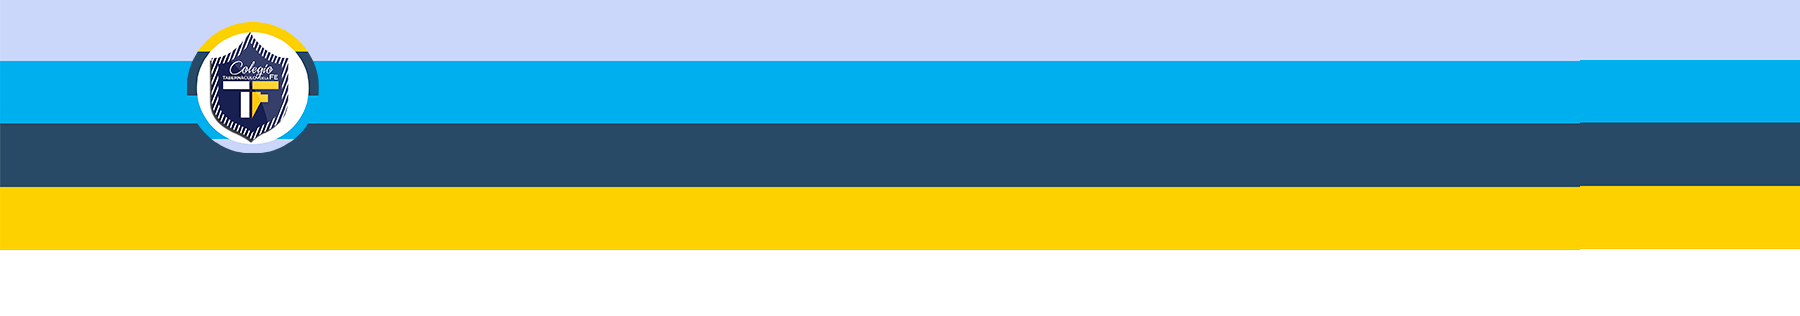
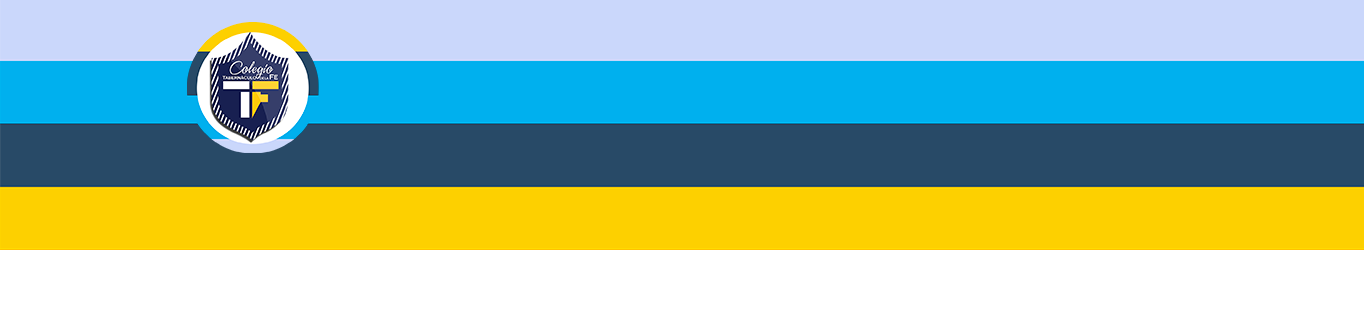
nuevo estilo

diff --git a/css/estilos.css b/css/estilos.css
@@ -1,6 +1,7 @@
 *{
 	margin: 0;
 	padding: 0;
+	
 	-webkit-box-sizing: border-box;
 	-moz-box-sizing: border-box;
 	box-sizing: border-box;
@@ -30,7 +31,7 @@ img{
 
 .title{
 	background-image: url(../img/portada1.png);
-	width: 1365px;
+	width: 1110px;
 	margin-top: 0;
 	height: 170px;
 
@@ -38,7 +39,11 @@ img{
 	align-items: center;
 	justify-content: center;
 }
-
+.container{
+	-webkit-box-shadow: -1px 3px 28px -4px rgba(0,0,0,1);
+-moz-box-shadow: -1px 3px 28px -4px rgba(0,0,0,1);
+box-shadow: -1px 3px 28px -4px rgba(0,0,0,1);
+}
 
 
 
@@ -179,13 +184,13 @@ box-shadow: 0px 0px 5px 0px rgba(0,0,0,0.51);
 	}
 
 	}
-	.contaner1 .btn{
+	.container .btn{
 		
 		display: inline;
 	}
 
 	@media (max-width: 794px){
-		.contaner1 .btn{
+		.container .btn{
 			
 			display: inline-block;
 			margin-top: 1rem;

diff --git a/css/estilos1.css b/css/estilos1.css
@@ -25,7 +25,11 @@ body{
 
 }
 	
-	 
+.container{
+	-webkit-box-shadow: -1px 3px 28px -4px rgba(0,0,0,1);
+-moz-box-shadow: -1px 3px 28px -4px rgba(0,0,0,1);
+box-shadow: -1px 3px 28px -4px rgba(0,0,0,1);
+}	 
 img{
 	max-width: 70%;
 }
@@ -33,7 +37,7 @@ img{
 
 .title{
 	background-image: url(../img/portada1.png);
-	width: 1365px;
+	width: 1110px;
 	margin-top: 0;
 	height: 170px;
 
@@ -182,13 +186,13 @@ box-shadow: 0px 0px 5px 0px rgba(0,0,0,0.51);
 	}
 
 	}
-	.contaner1 .btn{
+	.container .btn{
 		
 		display: inline;
 	}
 
 	@media (max-width: 794px){
-		.contaner1 .btn{
+		.container .btn{
 			
 			display: inline-block;
 			margin-top: 1rem;

diff --git a/vistas/AgregarAsis.php b/vistas/AgregarAsis.php
@@ -17,7 +17,8 @@
     
 </head>
 <body>
-
+<!--el container se puede poner aqui-->
+<div class="container">
 <section class="title mx-10">
 		<!--<h1 class="">Colegio Cristiano Tabernáculo de la Fe</h1>-->
 	</section>
@@ -78,7 +79,7 @@
 		</ul>
     </nav>
   
-    <div class="contaner1">
+   
     <h1 class="text-center">Listado Asistencia</h1>
     <button type="button" class="btn btn-info " data-toggle="modal" onclick="location.href='../vistas/AgregarAsis.php'">
 Parvúlos Primaria
@@ -256,20 +257,17 @@ Eliminar
     <option value="'.$fila['CODIGO_GRADO'].'">'.$fila['NOMBRE_GRADO'].'</option>
     </select>
    </td>
-    <td><select name="asistencia" id="asistencia">
-    <option value="si">Si</option>
-    <option value="no">No</option>
-    </select></td>
+    <td><input type="checkbox" name="asistencia" value="si"></td>
     
    
-    </tr>
+    </tr> 
     ';
     }
     
     ?>
    
     
-  
+ 
     
     </table>
         

diff --git a/vistas/AgregarAlumno.php b/vistas/AgregarAlumno.php
@@ -19,7 +19,7 @@
     
 </head>
 <body>
-
+<div class="container">
 <section class="title mx-10">
 		<!--<h1 class="">Colegio Cristiano Tabernáculo de la Fe</h1>-->
 	</section>
@@ -80,7 +80,7 @@
 		</ul>
     </nav>
   
-    <div class="contaner1">
+    
     <h1 class="text-center">Listado Alumnos</h1>
     <button type="button" class="btn btn-info " data-toggle="modal" onclick="location.href='../vistas/AgregarAlumno.php'">
 Parvúlos Primaria

diff --git a/vistas/AgregarReserva.php b/vistas/AgregarReserva.php
@@ -17,7 +17,7 @@
     
 </head>
 <body>
-
+<div class="container">
 <section class="title mx-10">
 		<!--<h1 class="">Colegio Cristiano Tabernáculo de la Fe</h1>-->
 	</section>
@@ -78,7 +78,7 @@
 		</ul>
     </nav>
   
-    <div class="contaner1">
+    
     <h1 class="text-center">Listado Reservaciones</h1>
     <button type="button" class="btn btn-info " data-toggle="modal" onclick="location.href='../vistas/AgregarDocente.php'">
 Docentes

diff --git a/vistas/AgregarTablet.php b/vistas/AgregarTablet.php
@@ -17,7 +17,7 @@
     
 </head>
 <body onload="lista_libros('');">
-
+<div class="container">
 <section class="title mx-10">
 		<!--<h1 class="">Colegio Cristiano Tabernáculo de la Fe</h1>-->
 	</section>
@@ -284,5 +284,6 @@ $('.deletebtn').on('click',function () {
   
 });
 </script>
+</div>
 </body>
 </html>

diff --git a/vistas/AgregarUsuario.php b/vistas/AgregarUsuario.php
@@ -17,7 +17,7 @@
     
 </head>
 <body onload="lista_libros('');">
-
+<div class="container">
 <section class="title mx-10">
 		<!--<h1 class="">Colegio Cristiano Tabernáculo de la Fe</h1>-->
 	</section>
@@ -285,5 +285,6 @@ $('.deletebtn').on('click',function () {
   
 });
 </script>
+</div>
 </body>
 </html>

diff --git a/grados2/cuartoBachCL.php b/grados2/cuartoBachCL.php
@@ -78,7 +78,7 @@
 		</ul>
     </nav>
   
-    <div class="contaner1">
+    <div class="container">
     <h1 class="text-center">Listado Asistencia</h1>
     <button type="button" class="btn btn-info " data-toggle="modal" onclick="location.href='../vistas/AgregarAsis.php'">
 Parvúlos Primaria

diff --git a/grados2/cuartoBachPC.php b/grados2/cuartoBachPC.php
@@ -78,7 +78,7 @@
 		</ul>
     </nav>
   
-    <div class="contaner1">
+    <div class="container">
     <h1 class="text-center">Listado Asistencia</h1>
     <button type="button" class="btn btn-info " data-toggle="modal" onclick="location.href='../vistas/AgregarAsis.php'">
 Parvúlos Primaria

diff --git a/grados2/cuartoPrimaria.php b/grados2/cuartoPrimaria.php
@@ -78,7 +78,7 @@
 		</ul>
     </nav>
   
-    <div class="contaner1">
+    <div class="container">
     <h1 class="text-center">Listado Asistencia</h1>
     <button type="button" class="btn btn-info " data-toggle="modal" onclick="location.href='../vistas/AgregarAsis.php'">
 Parvúlos Primaria

diff --git a/grados2/primeroBasico.php b/grados2/primeroBasico.php
@@ -78,7 +78,7 @@
 		</ul>
     </nav>
   
-    <div class="contaner1">
+    <div class="container">
     <h1 class="text-center">Listado Asistencia</h1>
     <button type="button" class="btn btn-info " data-toggle="modal" onclick="location.href='../vistas/AgregarAsis.php'">
 Parvúlos Primaria

diff --git a/grados2/primeroPrimaria.php b/grados2/primeroPrimaria.php
@@ -78,7 +78,7 @@
 		</ul>
     </nav>
   
-    <div class="contaner1">
+    <div class="container">
     <h1 class="text-center">Listado Asistencia</h1>
     <button type="button" class="btn btn-info " data-toggle="modal" onclick="location.href='../vistas/AgregarAsis.php'">
 Parvúlos Primaria
